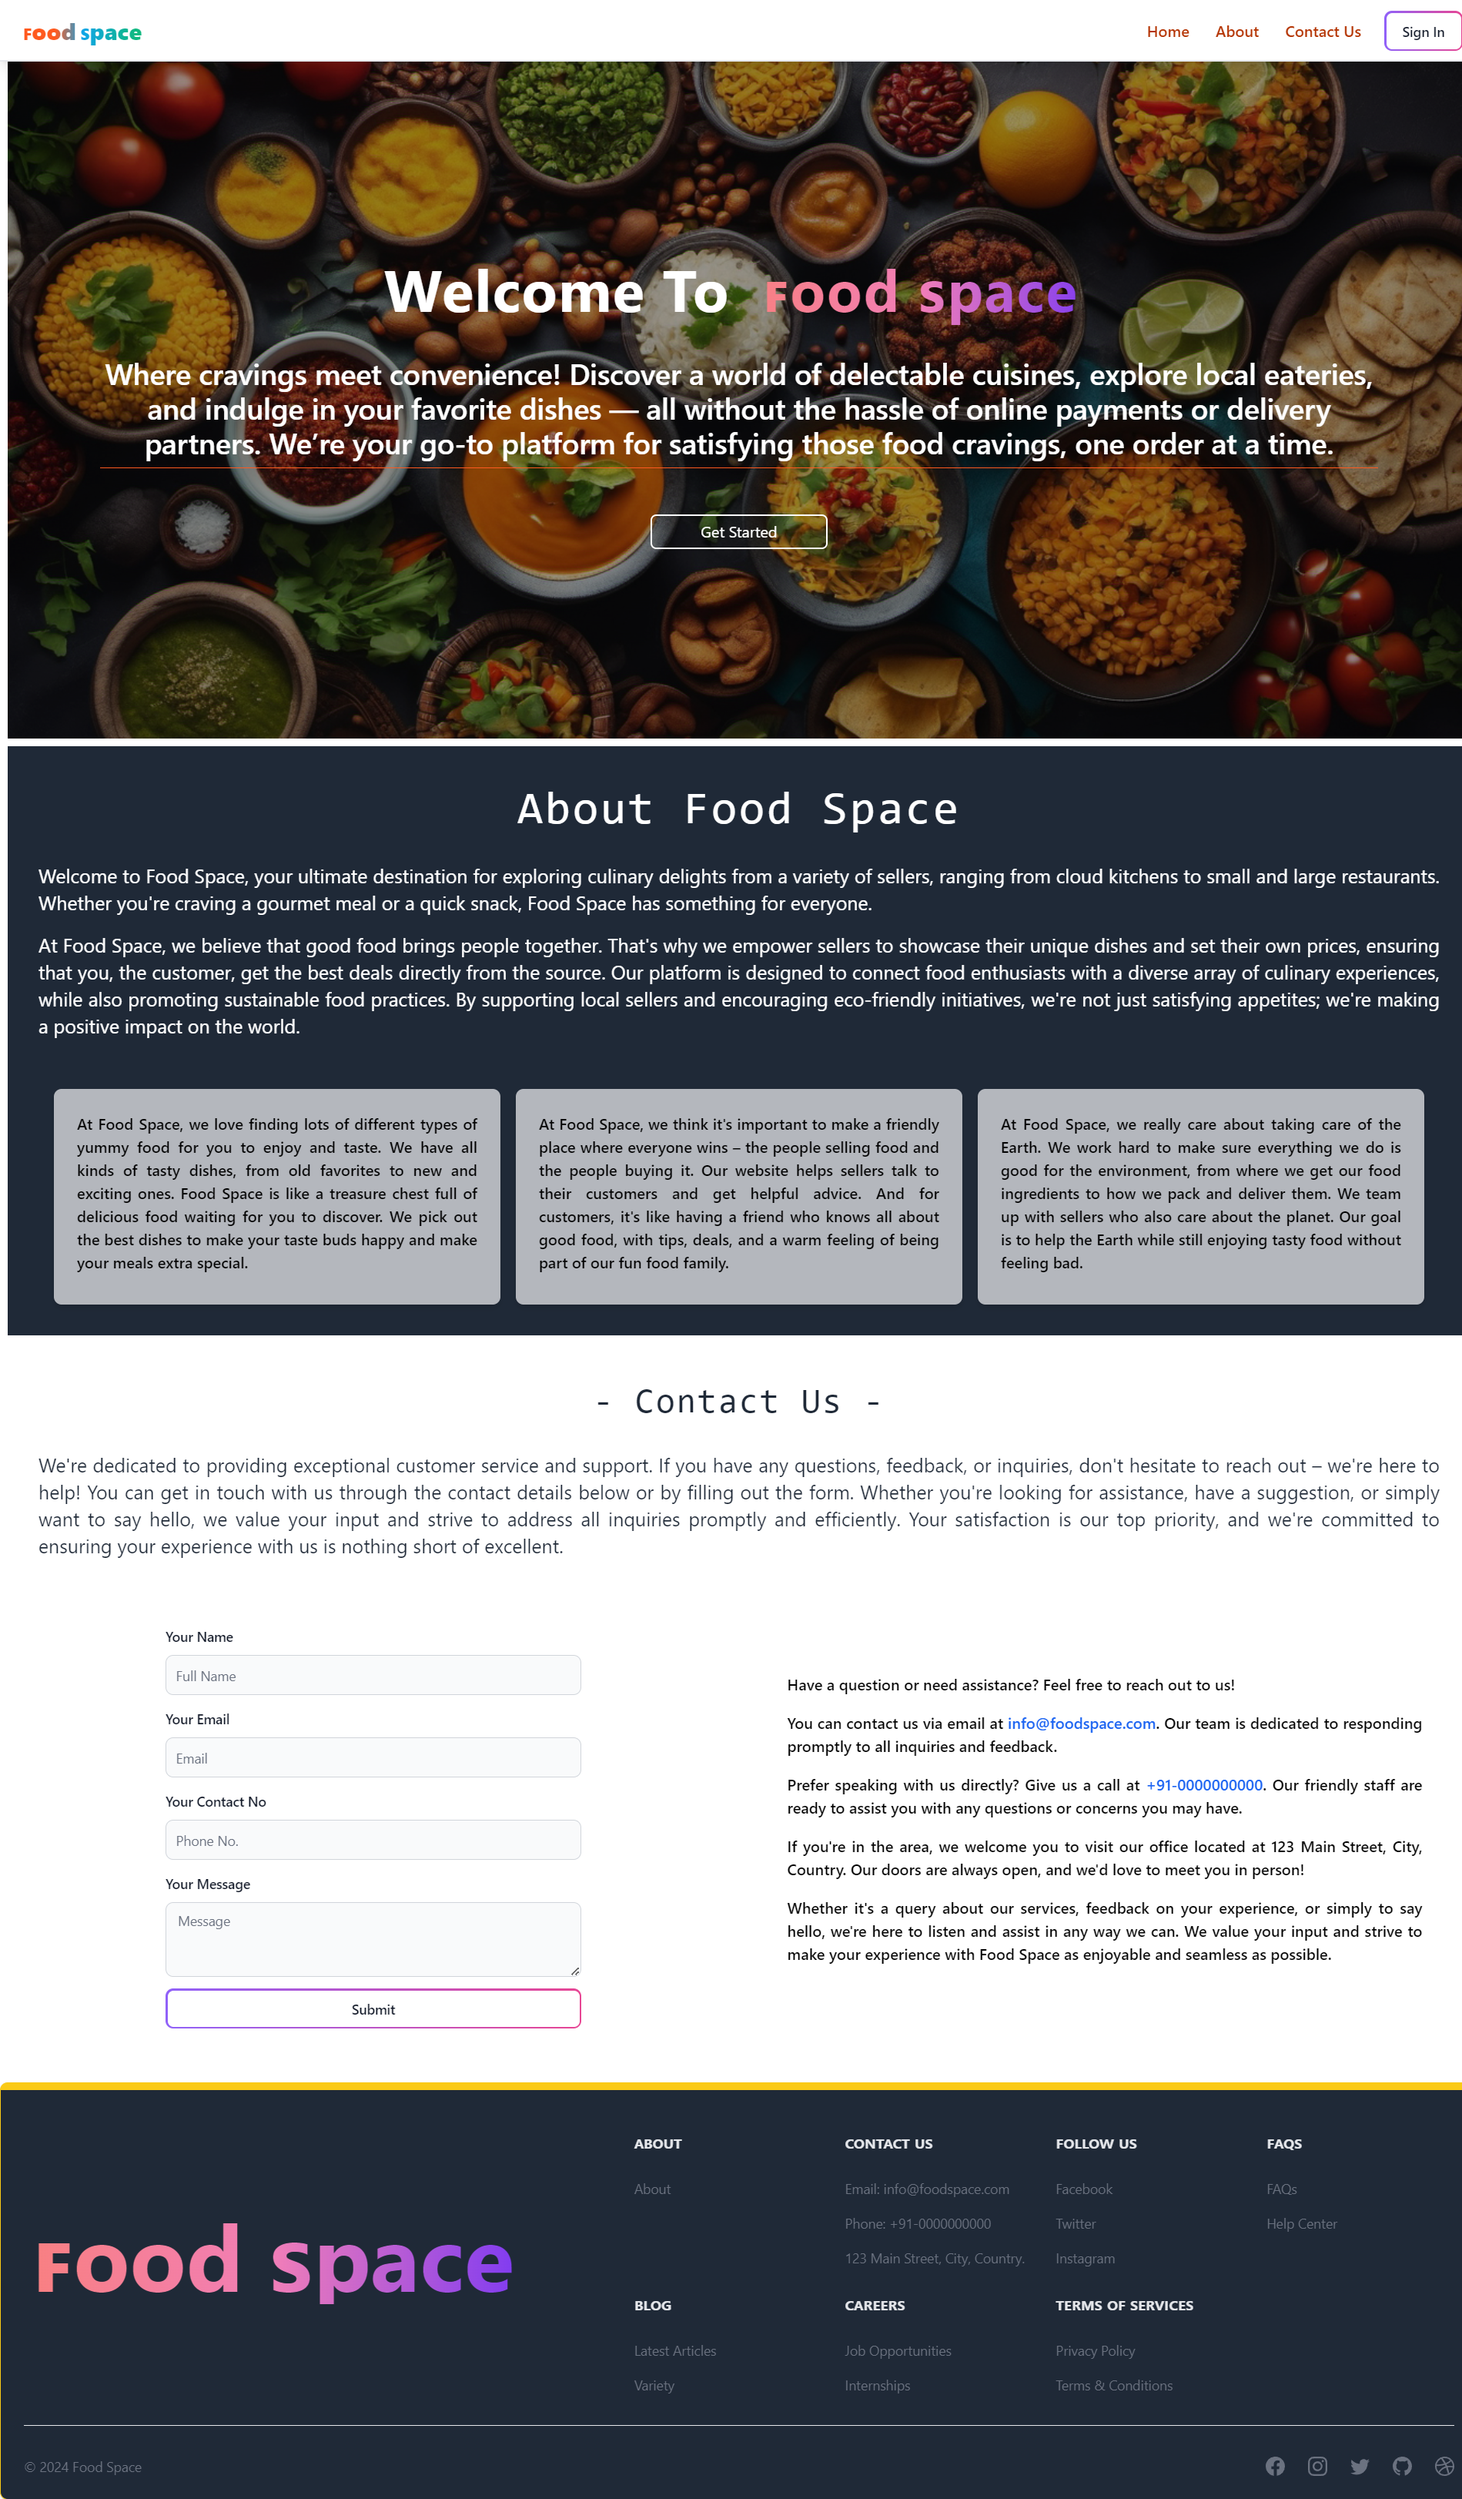
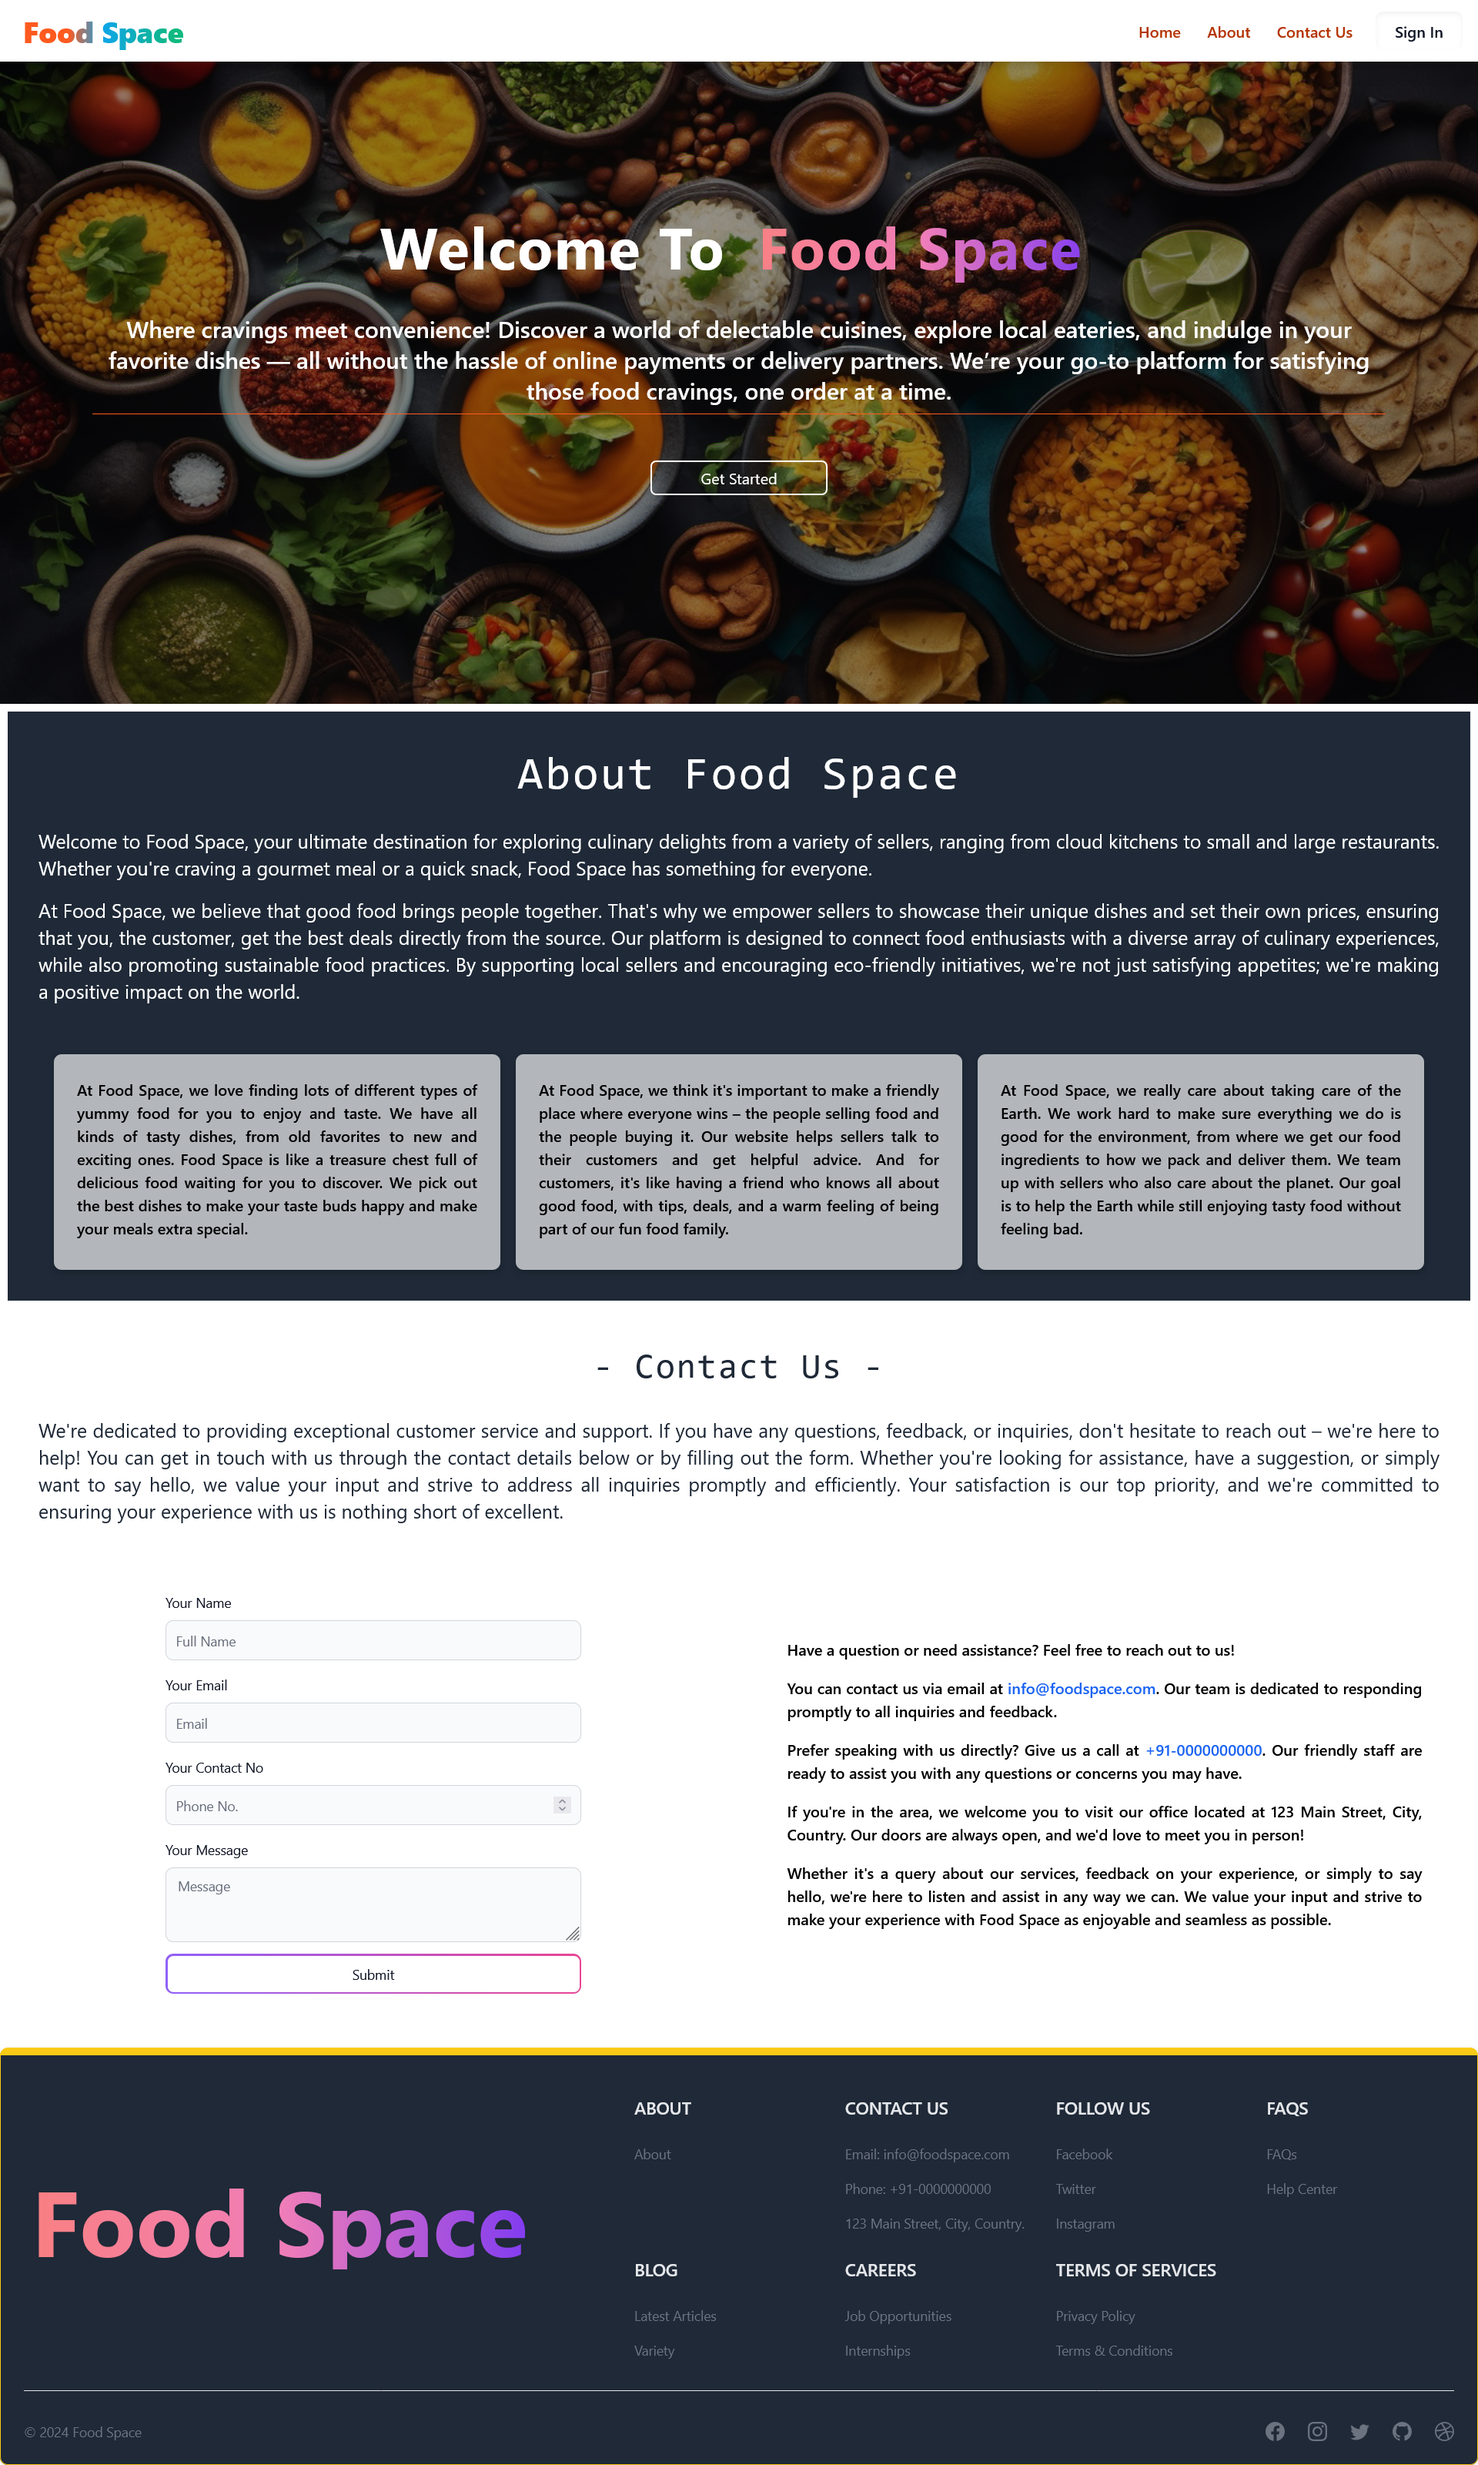
UI

diff --git a/frontend/src/components/Banner.jsx b/frontend/src/components/Banner.jsx
@@ -1,6 +1,6 @@
 import React from 'react';
 import { useTheme } from './context/AppContext';
-import backgroundImage from '../Assets/Banner.svg';
+import backgroundImage from '../Assets/Banner2.jpg';
 
 const Banner = () => {
     const { theme } = useTheme();
@@ -19,7 +19,7 @@ const Banner = () => {
             <div className={`absolute bottom-0 left-0 w-full h-1/3 bg-gradient-to-t ${theme === 'dark' ? 'from-black to-transparent opacity-50' : ''}`}></div>
             <div className={`banner-content relative text-center text-white flex flex-col justify-center p-4 sm:p-6 lg:p-10`} style={{ animation: 'fadeIn 1s ease-out' }}>
                 <h1 className={`text-4xl sm:text-5xl lg:text-6xl font-bold ${theme === 'dark' ? 'text-gray-900' : 'text-white'} tracking-wide mb-4 sm:mb-6 lg:mb-8`} style={{ animation: 'slideIn 1s ease-out' }}>
-                    Welcome To <span className={`px-4 py-2 bg-gradient-to-r from-red-400 ${theme === 'dark' ? 'via-gray-100' : 'via-gray-900'} to-purple-600 rounded-lg inline-block text-transparent bg-clip-text text-nowrap`} style={{ fontVariant: 'unicase' }}>My Profile Dev's</span>
+                    Welcome To <span className={`px-4 py-2 bg-gradient-to-r from-lime-400 ${theme === 'dark' ? 'via-gray-100' : 'via-gray-900'} to-purple-600 rounded-lg inline-block text-transparent bg-clip-text text-nowrap`} style={{ fontVariant: 'unicase' }}>My Profile Dev's</span>
                 </h1>
                 <h3 className={`text-lg sm:text-xl lg:text-2xl font-semibold ${theme === 'dark' ? 'text-gray-900' : 'text-white'} mb-6 sm:mb-8 lg:mb-12 border-b-2 text-pretty border-orange-500 pb-4 sm:pb-6 lg:pb-8 mx-4 sm:mx-6 lg:mx-8`} style={{ animation: 'slideIn 1s ease-out 0.4s forwards' }}>
                     <p className='my-3 sm:my-5'>
@@ -31,7 +31,7 @@ const Banner = () => {
                 </h3>
                 <button
                     style={{ color: (theme !== 'dark' ? 'white' : 'black'), animation: 'slideIn 1s ease-out 0.8s forwards' }}
-                    className={`self-center hover:bg-gradient-to-r from-pink-500 to-orange-500 hover:text-white w-[60%] sm:w-[40%] lg:w-[25%] transition-transform transform hover:scale-105 rounded-md h-10 sm:h-12 lg:h-14 ${theme !== 'dark' ? 'text-gray-900 border-black' : 'text-white border-white'} border-2`}
+                    className={`self-center hover:bg-gradient-to-r from-pink-500 to-orange-500 hover:text-white md:w-[25%] w-[40%] transition-transform transform hover:scale-105 rounded-md h-9 ${theme !== 'dark' ? 'text-gray-900 border-black' : 'text-white border-white'} border-2 lg:w-[12vw]`}
                     onClick={scrollToAbout}
                 >
                     Know More

diff --git a/frontend/src/components/Projects.jsx b/frontend/src/components/Projects.jsx
@@ -2,7 +2,7 @@ import React from 'react';
 import { useTheme } from './context/AppContext';
 import { Carousel } from 'react-responsive-carousel';
 import 'react-responsive-carousel/lib/styles/carousel.min.css';
-import { Food_Space_Banner, Food_Space_About, Food_Space_ContactUs, Food_Space_Footer } from '../Assets/ImportHandler.js'
+import { Food_Space, Food_Menu_Page, Travel_Diaries, Travel_Diaries_Login } from '../Assets/ImportHandler.js'
 
 const Projects = () => {
     const { theme } = useTheme();
@@ -19,7 +19,7 @@ const Projects = () => {
                 'Utilized Socket.io for real-time chatting in the frontend and backend, ensuring efficient data management and a seamless user experience.',
                 'Incorporated authentication mechanisms to ensure users can only edit or delete their own posts, enhancing security and privacy.'
             ],
-            image: ['path/to/your/image2_1.png', 'path/to/your/image2_2.png'] // Add multiple images for the carousel
+            image: [Travel_Diaries, Travel_Diaries_Login]
         },
         {
             title: 'Food Space',
@@ -31,7 +31,7 @@ const Projects = () => {
                 'Implemented CRUD operations for the Food Space application in Node.js to efficiently manage food orders and deliveries.',
                 'Designed an interactive UI for the application using React.js, HTML, CSS, and JavaScript, facilitating seamless interaction between different scenes.'
             ],
-            image: [Food_Space_Banner, Food_Space_About, Food_Space_ContactUs, Food_Space_Footer]
+            image: [Food_Space, Food_Menu_Page]
         },
         {
             title: 'Calculator with Local Storage',
@@ -109,7 +109,7 @@ const Projects = () => {
                                 <p className='text-base font-normal mb-2 text-gray-500 dark:text-gray-400'>{project.technologies}</p>
                                 <ul className='list-disc pl-5'>
                                     {project.description.map((desc, i) => (
-                                        <li key={i} className='text-base font-normal text-gray-500 dark:text-gray-400 mb-1'>{desc}</li>
+                                        <li key={i} className='text-base font-normal text-gray-500 text-justify dark:text-gray-400 mb-1'>{desc}</li>
                                     ))}
                                 </ul>
                             </div>

diff --git a/frontend/src/components/About.jsx b/frontend/src/components/About.jsx
@@ -51,7 +51,7 @@ const About = () => {
         {
             title: 'Post Graduate Degree - M.C.A',
             subtitle: 'Veermata Jijabai Technological Institute, Matunga (VJTI)',
-            date: 'Present',
+            date: '',
             content: 'CGPA / Percentage: 8.14 / 73.90%',
             university: 'Mumbai University'
         },
@@ -104,8 +104,9 @@ const About = () => {
                                 </div>
                                 <h3 className={`text-lg font-semibold mt-4 mb-2 ${theme === 'dark' ? 'text-white' : 'text-gray-900'}`}>{edu.title}</h3>
                                 <time className='text-sm font-normal mb-2 text-gray-400 dark:text-gray-500'>{edu.date}</time>{edu.title === 'Post Graduate Degree - M.C.A' && <span className='bg-blue-100 text-blue-800 text-sm font-medium ml-3 px-2.5 py-1 rounded'>Latest</span>}
-                                <p className='text-base font-normal text-gray-500 dark:text-gray-400'>{edu.content}</p>
-                                {edu.university && <p className='text-base font-normal mb-4 text-gray-500 dark:text-gray-400'>{edu.university}</p>}
+                                <p className={`text-sm font-normal ${theme === 'dark' ? 'text-white' : 'text-gray-900'}`}>{edu.subtitle}</p>
+                                <p className={`text-base font-normal ${theme === 'dark' ? 'text-white' : 'text-gray-900'}`}>{edu.content}</p>
+                                {edu.university && <p className={`text-base font-normal mb-4 ${theme === ' dark' ? 'text-white' : 'text-gray-900'}`}>{edu.university}</p>}
                             </div>
                         ))}
                     </div>

diff --git a/frontend/src/Assets/ImportHandler.js b/frontend/src/Assets/ImportHandler.js
@@ -1,6 +1,7 @@
-import Food_Space_Banner from './FoodSpace_Banner.png';
-import Food_Space_About from './FoodSpace_About.png';
-import Food_Space_ContactUs from './FoodSpace_ContactUs.png';
-import Food_Space_Footer from './FoodSpace_Footer.png';
+import Food_Space from './FoodSpace.png';
+import Food_Menu_Page from './MenuPage.png'
+import Travel_Diaries from './Travel_Diaries.png'
+import Travel_Diaries_Login from './Travel_Diaries_Login.png'
+import Route_Planning_Tool1 from './Route_Planning_Tool1.png'
 
-export { Food_Space_Banner, Food_Space_About, Food_Space_ContactUs, Food_Space_Footer };
+export { Food_Menu_Page, Food_Space, Travel_Diaries, Travel_Diaries_Login };
